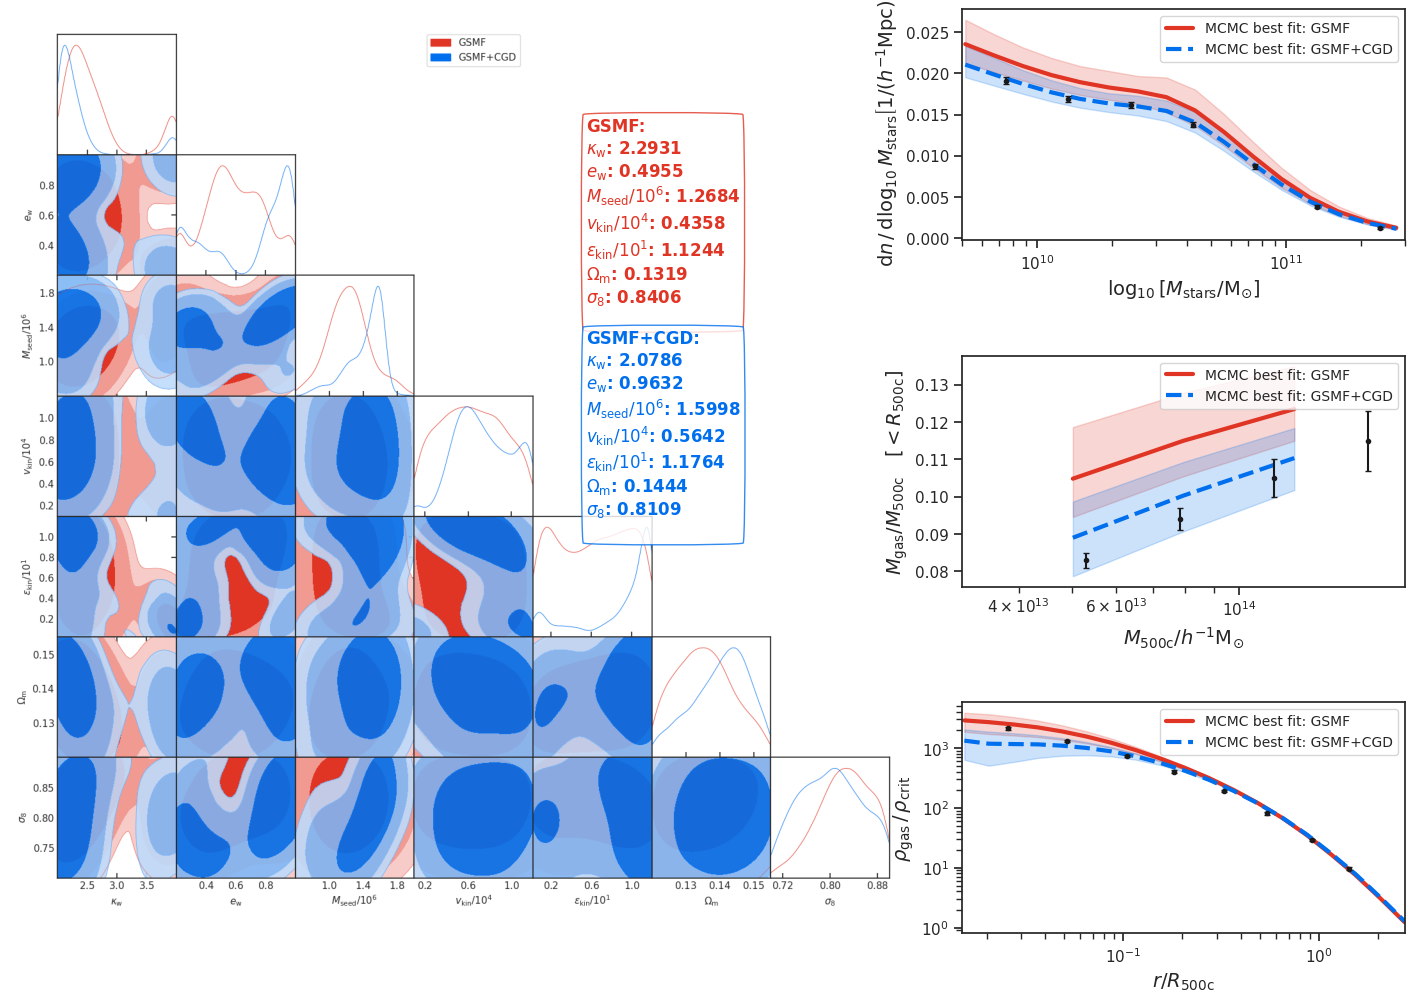
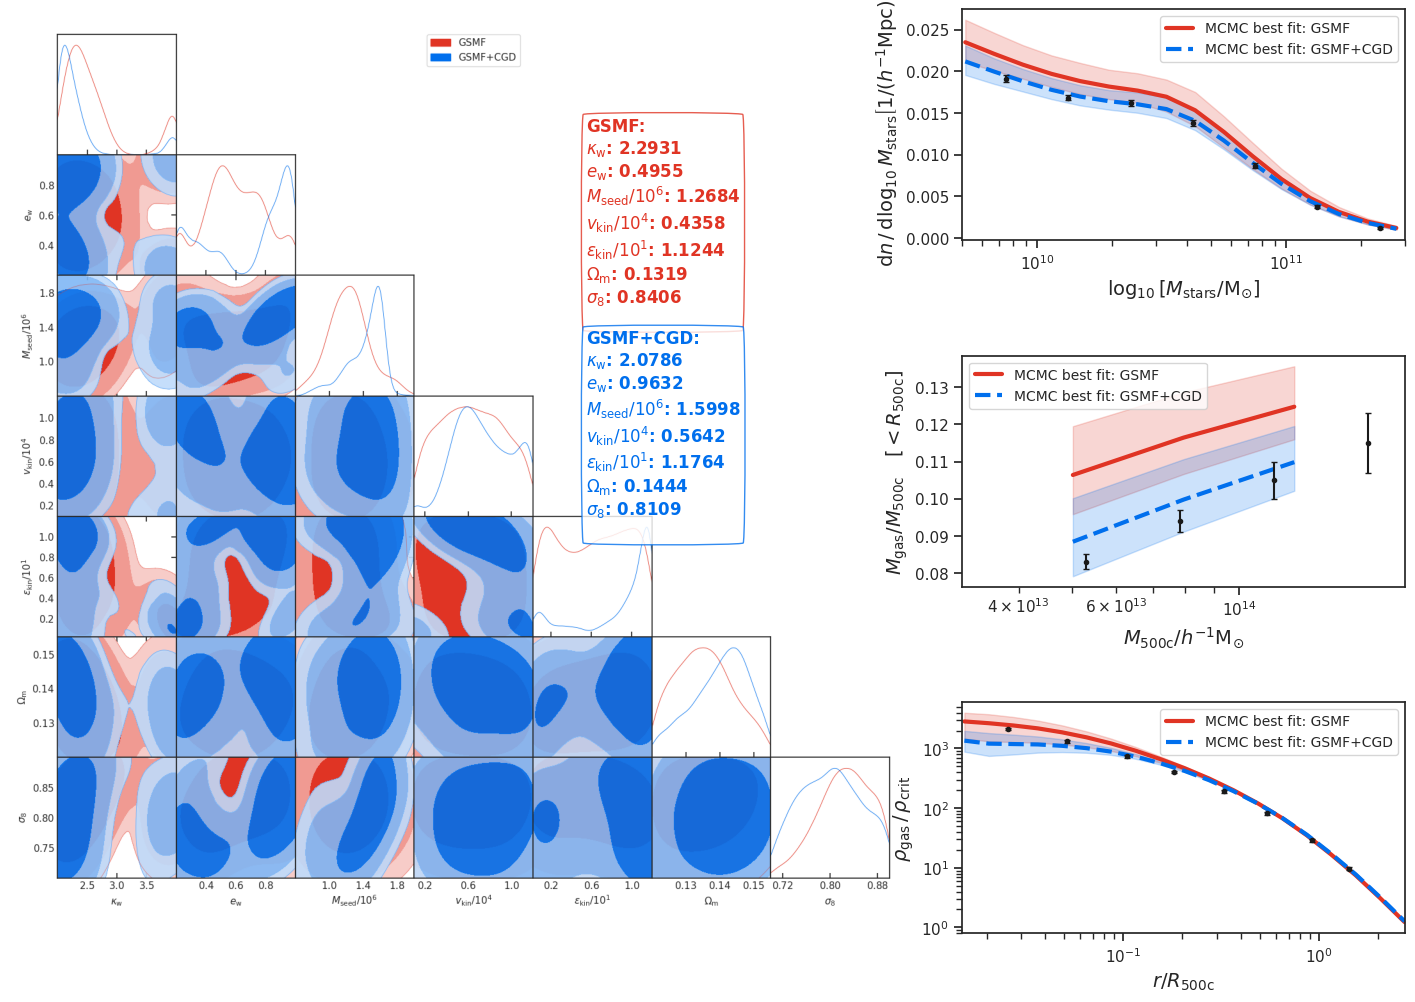
mcmc plots

diff --git a/Inference/plot_7p_vs_2cosmo.py b/Inference/plot_7p_vs_2cosmo.py
@@ -1,0 +1,117 @@
+#!/usr/bin/env python
+"""
+Overlay plot: 7-parameter MCMC posterior with the 2-cosmology-parameter
+(Planck-prior) posterior overlaid on the cosmology subspace.
+
+Run after both MCMC trials are complete:
+    python plot_7p_vs_2cosmo.py
+"""
+
+import os
+import sys
+import numpy as np
+import matplotlib.pyplot as plt
+from getdist import plots, MCSamples
+
+sys.path.insert(0, os.path.join(os.path.dirname(__file__), '..', 'codes'))
+from cosmo_hydro_emu.load_hacc import PARAM_NAME
+
+RESULTS = os.path.join(os.path.dirname(__file__), 'results')
+
+SAMPLES_7P = os.path.join(RESULTS, 'samples_GSMF_CGD_fGas_7p_planck.npy')
+PARAMS_7P  = os.path.join(RESULTS, 'params_list_GSMF_CGD_fGas_7p_planck.npy')
+
+SAMPLES_2C = os.path.join(RESULTS, 'samples_GSMF_CGD_fGas_2cosmo_planck.npy')
+PARAMS_2C  = os.path.join(RESULTS, 'params_list_GSMF_CGD_fGas_2cosmo_planck.npy')
+
+OUTPUT = os.path.join(RESULTS, 'plot_7p_vs_2cosmo_planck.png')
+
+
+def load(samples_path, params_path):
+    samples = np.load(samples_path)
+    params_list = np.load(params_path, allow_pickle=True).tolist()
+    names = [p[0] for p in params_list]
+    ranges = {p[0]: (float(p[2]), float(p[3])) for p in params_list}
+    return samples, names, ranges
+
+
+def main():
+    for f in (SAMPLES_7P, PARAMS_7P, SAMPLES_2C, PARAMS_2C):
+        if not os.path.exists(f):
+            print(f"ERROR: missing {f}")
+            sys.exit(1)
+
+    s7p, names_7p, ranges_7p = load(SAMPLES_7P, PARAMS_7P)
+    s2c, names_2c, ranges_2c = load(SAMPLES_2C, PARAMS_2C)
+
+    print(f"7p: samples shape {s7p.shape}, names {names_7p}")
+    print(f"2cosmo: samples shape {s2c.shape}, names {names_2c}")
+
+    # MCSamples: both chains share the cosmology names. getdist will overlay
+    # the 2cosmo chain only on the omega_m / sigma_8 panels of the 7p triangle.
+    mc_7p = MCSamples(
+        samples=s7p,
+        names=names_7p,
+        labels=[n.strip('$') for n in names_7p],
+        label='7 params (GSMF+CGD+fGas, Planck prior on cosmo)',
+        ranges=ranges_7p,
+        settings={'mult_bias_correction_order': 0.5,
+                  'smooth_scale_2D': 4, 'smooth_scale_1D': 4},
+    )
+
+    mc_2c = MCSamples(
+        samples=s2c,
+        names=names_2c,
+        labels=[n.strip('$') for n in names_2c],
+        label='2 cosmo only (GSMF+CGD+fGas, Planck prior)',
+        ranges=ranges_2c,
+        settings={'mult_bias_correction_order': 0.5,
+                  'smooth_scale_2D': 4, 'smooth_scale_1D': 4},
+    )
+
+    g = plots.get_subplot_plotter(subplot_size=2.0)
+    g.settings.axes_fontsize = 12
+    g.settings.axes_labelsize = 14
+    g.settings.legend_fontsize = 12
+    g.settings.alpha_filled_add = 0.6
+    g.settings.solid_contour_palefactor = 0.6
+    g.settings.num_plot_contours = 2
+
+    # Triangle plotted in 7p parameter space; getdist drops 2cosmo from panels
+    # whose parameter is absent in mc_2c (i.e. the 5 subgrid panels) and
+    # overlays it where omega_m / sigma_8 appear.
+    g.triangle_plot(
+        [mc_7p, mc_2c],
+        params=names_7p,
+        filled=True,
+        legend_labels=[mc_7p.label, mc_2c.label],
+        param_limits=ranges_7p,
+        contour_colors=['#1f77b4', '#d62728'],
+    )
+
+    # Mark Planck means as crosshairs on the cosmology panels for reference
+    planck = {names_7p[5]: 0.143, names_7p[6]: 0.811}
+    n = len(names_7p)
+    for i, ni in enumerate(names_7p):
+        for j, nj in enumerate(names_7p):
+            if j > i:
+                continue
+            ax = g.subplots[i, j]
+            if ax is None:
+                continue
+            if i == j and ni in planck:
+                ax.axvline(planck[ni], color='k', lw=1.0, ls=':')
+            elif ni in planck and nj in planck:
+                ax.axvline(planck[nj], color='k', lw=1.0, ls=':')
+                ax.axhline(planck[ni], color='k', lw=1.0, ls=':')
+
+    plt.suptitle('7-param vs 2-cosmology MCMC — Planck prior on $\\Omega_m h^2$, $\\sigma_8$',
+                 y=1.005, fontsize=14)
+
+    os.makedirs(os.path.dirname(OUTPUT), exist_ok=True)
+    plt.savefig(OUTPUT, bbox_inches='tight', dpi=150)
+    print(f"Plot saved: {OUTPUT}")
+
+
+if __name__ == '__main__':
+    main()

diff --git a/codes/cosmo_hydro_emu/mcmc.py b/codes/cosmo_hydro_emu/mcmc.py
@@ -149,9 +149,11 @@ def ln_like(theta,
     return sum(log_likelihoods)
 
 
-def ln_prior(theta, params_list, flat_indices=None):
+def ln_prior(theta, params_list, flat_indices=None, gaussian_priors=None):
     """
-    Mixed prior: Gaussian for most params, flat for specified indices.
+    Mixed prior: Gaussian (default = wide, centered at design midpoint),
+    flat for indices in ``flat_indices``, or a custom truncated Gaussian
+    with explicit (mu, sigma) for indices in ``gaussian_priors``.
 
     Parameters
     ----------
@@ -160,10 +162,15 @@ def ln_prior(theta, params_list, flat_indices=None):
     params_list : list
         Each entry: [name, initial_value, lower_bound, upper_bound].
     flat_indices : list or None
-        Indices that get flat priors. If None, all get Gaussian.
+        Indices that get a flat (uniform) prior.
+    gaussian_priors : dict or None
+        ``{index: (mu, sigma)}`` for parameters with a custom Gaussian prior
+        (e.g. Planck cosmology). Truncated by the [lower, upper] design range.
     """
     if flat_indices is None:
         flat_indices = []
+    if gaussian_priors is None:
+        gaussian_priors = {}
 
     pdf_sum = 0
     for i, (p, param) in enumerate(zip(theta, params_list)):
@@ -171,8 +178,11 @@ def ln_prior(theta, params_list, flat_indices=None):
             return -np.inf
         if i in flat_indices:
             continue
-        p_mu = 0.5 * (param[3] - param[2]) + param[2]
-        p_sigma = 1 * (param[3] - p_mu)
+        if i in gaussian_priors:
+            p_mu, p_sigma = gaussian_priors[i]
+        else:
+            p_mu = 0.5 * (param[3] - param[2]) + param[2]
+            p_sigma = 1 * (param[3] - p_mu)
         pdf_sum += (np.log(1.0 / (np.sqrt(2 * np.pi) * p_sigma))
                     - 0.5 * (p - p_mu) ** 2 / p_sigma ** 2)
     return pdf_sum
@@ -189,9 +199,11 @@ def ln_prob(theta,
             flat_indices=None,
             param_names=None,
             redshifts=None,
-            z_all_list=None):
+            z_all_list=None,
+            gaussian_priors=None):
     """Log probability = log prior + log likelihood."""
-    lp = ln_prior(theta, params_list, flat_indices=flat_indices)
+    lp = ln_prior(theta, params_list, flat_indices=flat_indices,
+                  gaussian_priors=gaussian_priors)
     if not np.isfinite(lp):
         return -np.inf
     return lp + ln_like(theta, x_grids, sepia_models, data,
@@ -220,13 +232,14 @@ def define_sampler(ndim, nwalkers, params_list, x_grids, sepia_models, data,
                    fixed_params=None, with_underestimation_bias=False,
                    case_labels=None, flat_indices=None, param_names=None,
                    redshifts=None, z_all_list=None,
+                   gaussian_priors=None,
                    pool=None):
     """Define emcee EnsembleSampler with optional parallel pool."""
     sampler = emcee.EnsembleSampler(
         nwalkers, ndim, ln_prob,
         args=(params_list, x_grids, sepia_models, data, fixed_params,
               with_underestimation_bias, case_labels, flat_indices, param_names,
-              redshifts, z_all_list),
+              redshifts, z_all_list, gaussian_priors),
         pool=pool)
     return sampler
 

diff --git a/Inference/run_mcmc.py b/Inference/run_mcmc.py
@@ -441,6 +441,24 @@ def main():
     params_list, fixed_params, param_names, with_bias = build_param_space(cfg, design_params)
     flat_indices = cfg.get('flat_prior_indices', [])
 
+    # Build per-parameter Gaussian priors (e.g. Planck on cosmology).
+    # Config form (preferred, by short key):
+    #   gaussian_priors:
+    #     omega_m: {mu: 0.143, sigma: 0.001}
+    #     sigma_8: {mu: 0.811, sigma: 0.006}
+    # Maps short keys -> indices into the *free* params_list.
+    gaussian_priors = {}
+    free_labels = [p[0] for p in params_list]
+    for short_key, spec in (cfg.get('gaussian_priors') or {}).items():
+        label = SHORT_KEY_TO_LABEL.get(short_key, short_key)
+        if label not in free_labels:
+            print(f"  [gaussian_priors] '{short_key}' is fixed/absent — skipping")
+            continue
+        idx = free_labels.index(label)
+        gaussian_priors[idx] = (float(spec['mu']), float(spec['sigma']))
+        print(f"  [gaussian_priors] {short_key} (idx {idx}): "
+              f"N(mu={spec['mu']}, sigma={spec['sigma']}) truncated to design range")
+
     print(f"Free parameters ({len(params_list)}):")
     for p in params_list:
         print(f"  {p[0]:30s}  init={p[1]:.4f}  range=[{p[2]:.4f}, {p[3]:.4f}]")
@@ -535,7 +553,7 @@ def main():
     # Test likelihood at initial point
     theta0 = np.array([p[1] for p in params_list])
     print(f"\nTest theta: {theta0}")
-    print(f"ln_prior = {ln_prior(theta0, params_list, flat_indices=flat_indices):.4f}")
+    print(f"ln_prior = {ln_prior(theta0, params_list, flat_indices=flat_indices, gaussian_priors=gaussian_priors):.4f}")
 
     for i, entry in enumerate(obs_entries):
         ll = log_likelihood(theta0, x_grids[i], sepia_models[i],
@@ -570,6 +588,7 @@ def main():
         fixed_params=fixed_params, with_underestimation_bias=with_bias,
         case_labels=case_labels, flat_indices=flat_indices,
         param_names=param_names, redshifts=redshifts, z_all_list=obs_z_arrays,
+        gaussian_priors=gaussian_priors,
     )
 
     if use_pool: